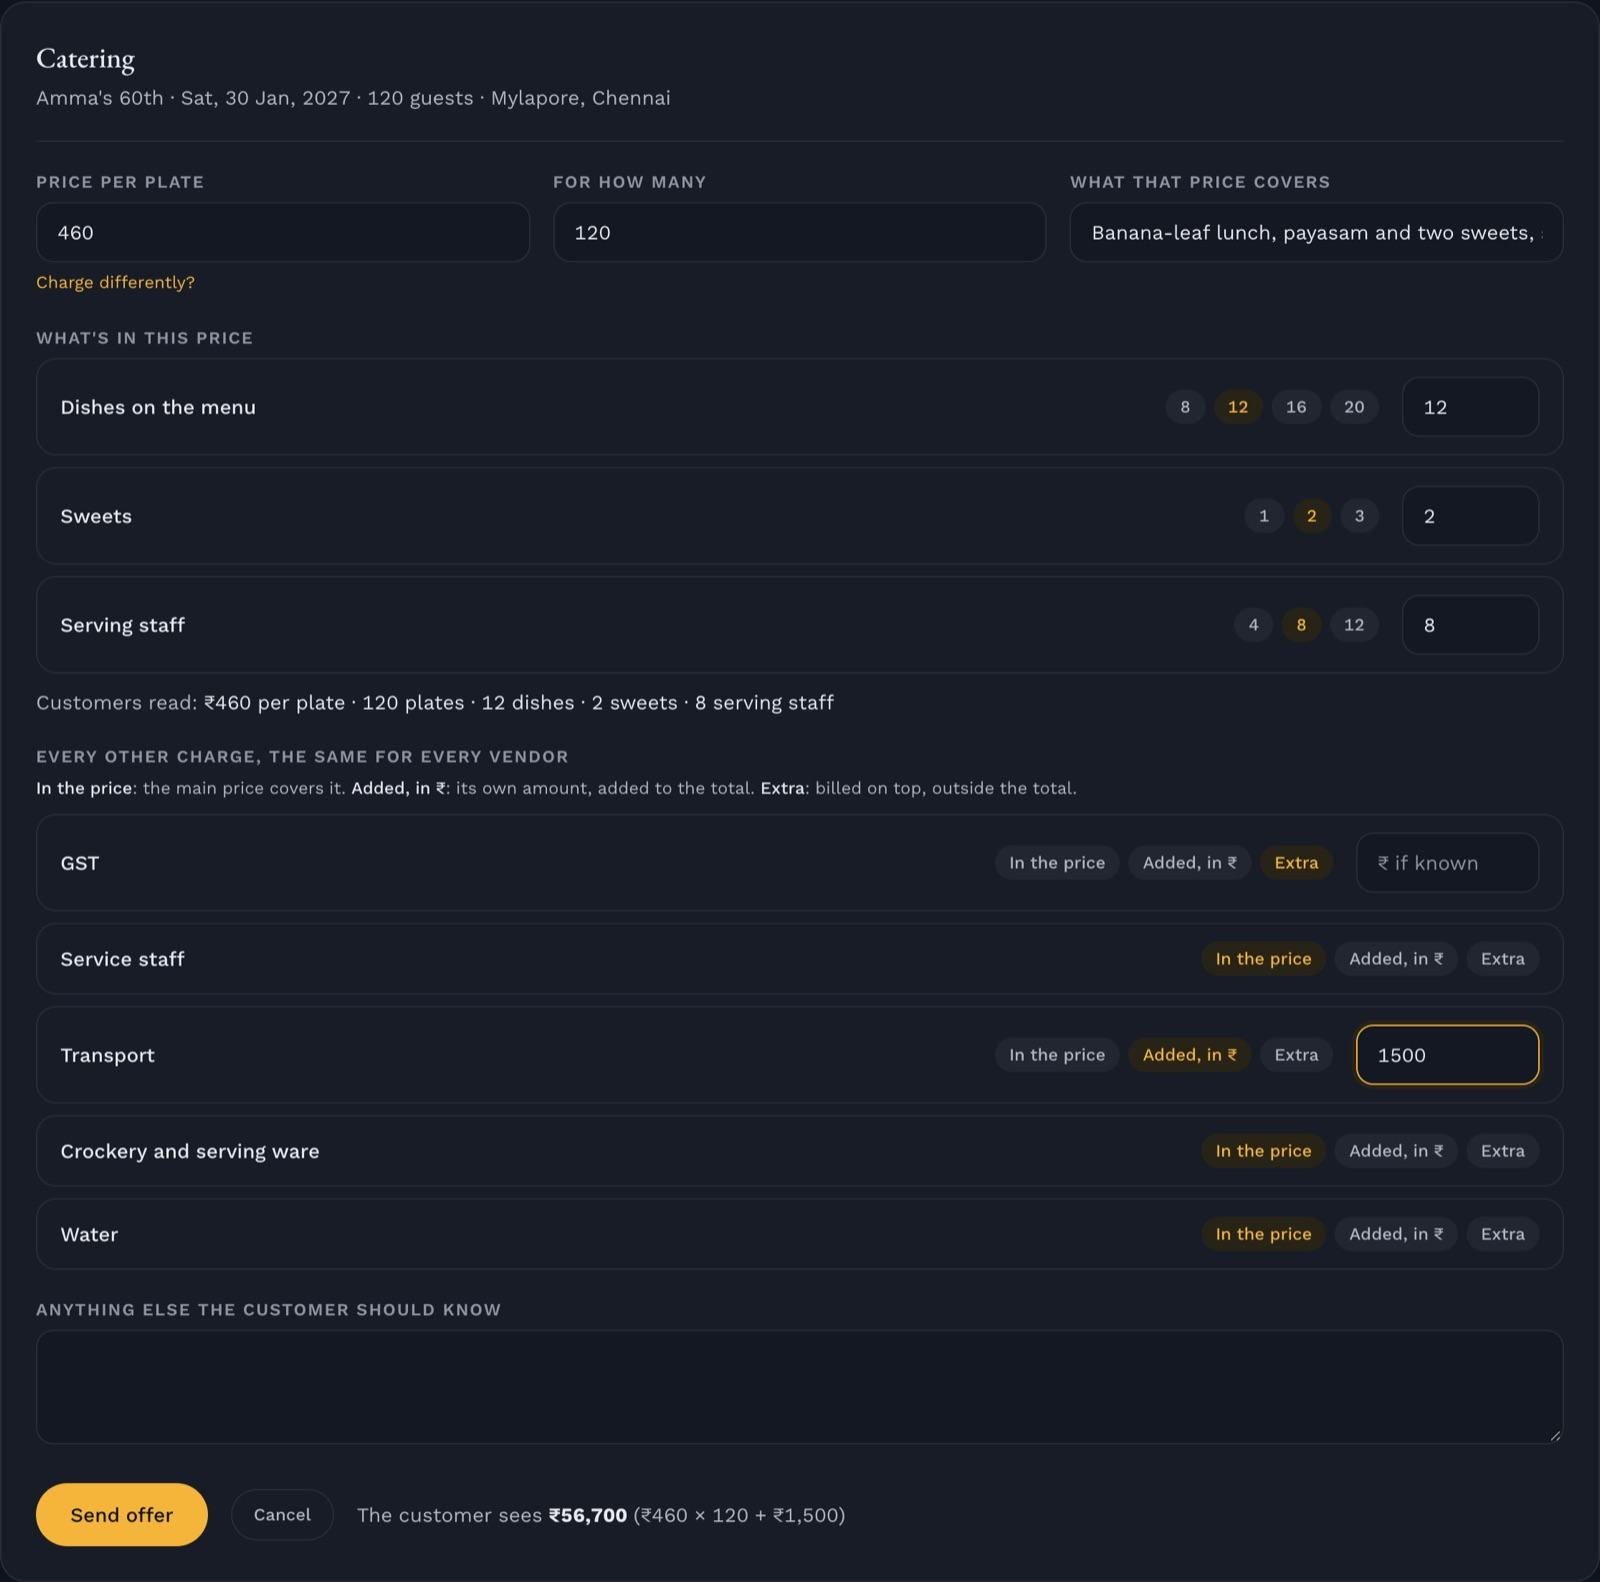
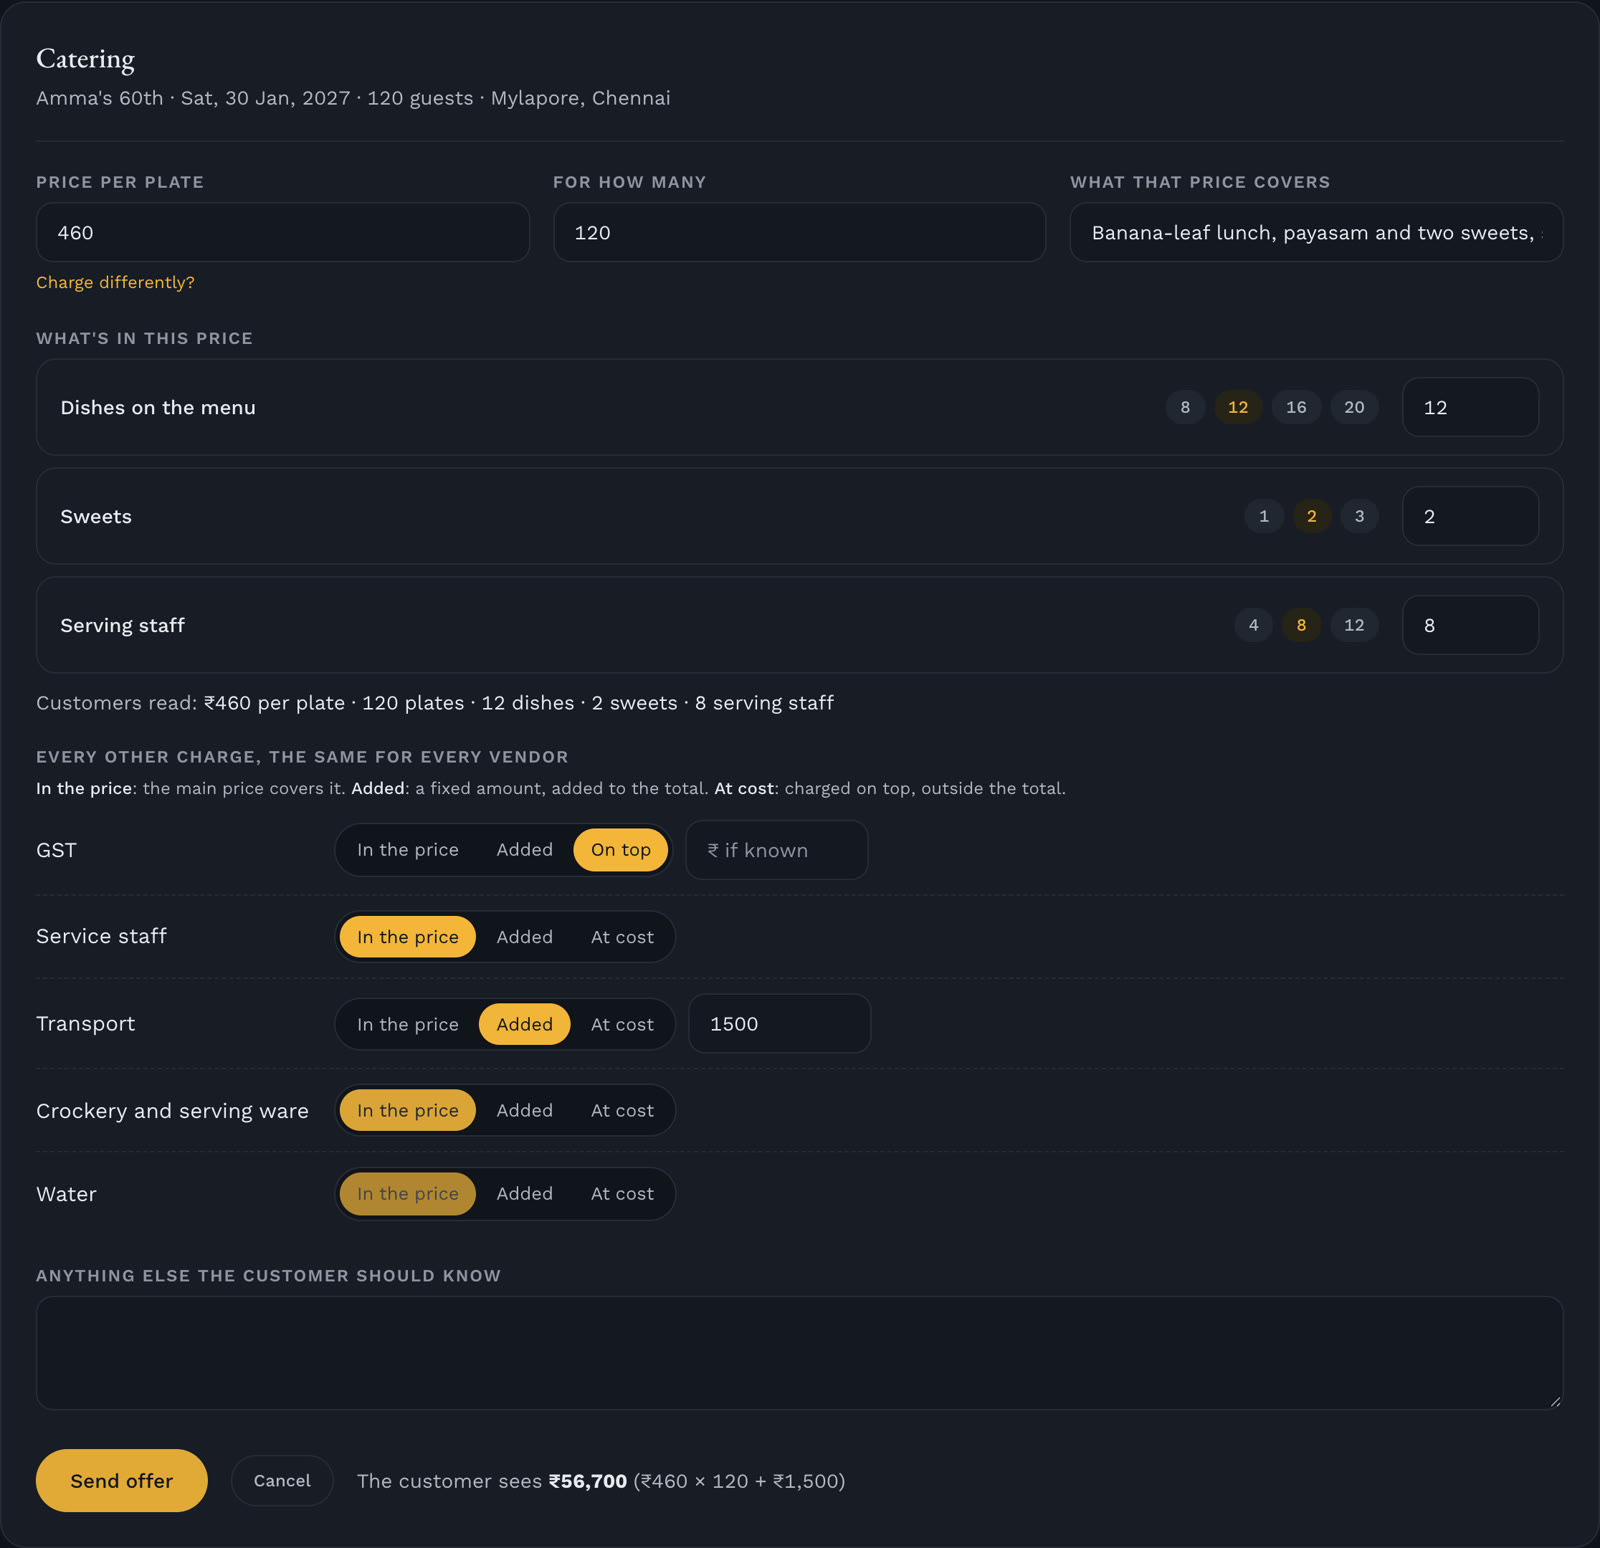
The pitch says "plan events", and the offer screenshot shows today's sheet
"A standardised way to plan events" replaces "plan and buy events" in
the README, the How it works page and the devlog. The vendor's offer
screenshot is retaken with the request sheet's new charge words (In the
price, Added, At cost; On top for GST).

diff --git a/src/pages/HowItWorksPage.tsx b/src/pages/HowItWorksPage.tsx
@@ -100,7 +100,7 @@ export function HowItWorksPage() {
 
         <section className="card mt-14 p-6 md:p-8" aria-labelledby="aim-h">
           <h2 id="aim-h" className="display text-[clamp(1.6rem,2.6vw,2.1rem)] leading-tight">
-            A standard way <em>to plan and buy events</em>
+            A standard way <em>to plan events</em>
           </h2>
           <p className="mt-3 max-w-[46rem] leading-relaxed text-muted">
             Every event, whatever its size, should get a clear budget, vendor options that can be compared, prices that say what they include, and a

diff --git a/README.md b/README.md
@@ -55,7 +55,7 @@
 </div>
 
 
-> **We're building a standardised way to plan and buy events in India, where customers often struggle to compare quotes, understand what's included and coordinate fragmented vendors. AI turns the planning process into a structured, transparent workflow.**
+> **We're building a standardised way to plan events in India, where customers often struggle to compare quotes, understand what's included and coordinate fragmented vendors. AI turns the planning process into a structured, transparent workflow.**
 
 Planning an event means juggling: vendors on calls and WhatsApp, quotes in email and PDFs, the budget in a spreadsheet, the guests in another list. And no two quotes are written alike, so nobody can tell what's included until the extra charges arrive. PlusOne solves both:
 
@@ -64,7 +64,7 @@ Planning an event means juggling: vendors on calls and WhatsApp, quotes in email
 
 **What it saves.** In the demo's 60th-birthday lunch, the quote that looks cheapest is the dearest once its minimum order, service, transport and GST sit on the same lines; choosing the one that really is cheaper saves the host about 10%. An event hires many vendors (the average wedding, 14), so if the same 10% holds across the package, a ₹5 lakh event keeps about ₹50,000 and a ₹20 lakh wedding about ₹2 lakh. On the founders' own baby shower, ₹29,500, about 10% of what was quoted, came as charges outside the headline prices ([measured](#measured-results)).
 
-India's weddings alone are about $130 billion a year (Jefferies, 2024); 87% of the industry is unorganised and the average wedding hires 14 vendors (Kotak Mutual Fund, Nov 2025). Demand is never the question; what's missing is one organised place where every price can be seen and compared. The aim is to standardise how events are planned and bought, so that every event gets a clear budget, comparable vendor options, transparent pricing and a predictable way to get it done, whatever its size: a first birthday as much as a wedding.
+India's weddings alone are about $130 billion a year (Jefferies, 2024); 87% of the industry is unorganised and the average wedding hires 14 vendors (Kotak Mutual Fund, Nov 2025). Demand is never the question; what's missing is one organised place where every price can be seen and compared. The aim is to standardise how events are planned, so that every event gets a clear budget, comparable vendor options, transparent pricing and a predictable way to get it done, whatever its size: a first birthday as much as a wedding.
 
 <img src="assets/overview.svg" width="100%" alt="How PlusOne works: customers, families and event managers, describe their event in PlusOne; vendors get the same brief and send quotes back; PlusOne puts every quote on the same lines, flags missing charges and makes every price comparable, so the customer compares them line by line; the PlusOne team verifies every vendor">
 
@@ -146,7 +146,7 @@ Before the event, PlusOne was a planner that talked a plan through, wrote to ven
 
 **Why wouldn't a customer and vendor take the deal to WhatsApp?** The guarantee, the locked standard price, the staged payments and the vendor's track record only exist for bookings made through PlusOne, the way home-services apps keep theirs. [Why bookings stay](BUSINESS.md#why-bookings-stay-on-plusone)
 
-**Is there demand?** Every week there is a birthday, a housewarming, a wedding function or an office party being planned, and 87% of the industry is unorganised. What's missing is one organised place to plan and buy it.
+**Is there demand?** Every week there is a birthday, a housewarming, a wedding function or an office party being planned, and 87% of the industry is unorganised. What's missing is one organised place to plan it.
 
 **What was built during the hackathon?** A two-sided platform with Meta's models at its core: the standard sheet, Compare line by line, the market range, Partner and Ops, voice and recorded calls, the venue view, the photo and vendor checks, the open directory and the map, price lists read on open weights, and quote updates on WhatsApp. [Built during the hackathon](#built-during-the-hackathon-27-oct--4-nov-2026)
 

diff --git a/devlog.md b/devlog.md
@@ -188,7 +188,7 @@ Muse Code is Meta's coding agent. We subscribed to the Everyday plan on 27 Oct 2
 - **Critic review (evening):** scored 6.0 / 10 as a judge would (`docs/reviews/2026-10-27.md` in the team's notes): Meta's models invisible to judges and the new features not built yet. Fixed the same evening: the hackathon cutoff stated accurately, Meta setup steps in the README, no sideways scroll on phones, the guest demo no longer opens its tour by itself, the assistant now changes headcounts and start times when told ("we're now 140 people", "move lunch to 1 pm") instead of asking, and an **Under the hood** panel lists every model call for an event, with the model, time and cost (`src/components/UnderTheHood.tsx`, `convex/modelCalls.ts`).
 - **Muse Code:** Everyday plan subscribed. First session built the SAM 3.1 adapter (`convex/lib/sam.ts`, `46df7a5`): one prompt, 30 turns, 41% of a 5-hour quota; Claude Code reviewed it, shared the retry rules with `meta.ts` and committed it. A second session (Muse Wonder) fixed event cards cropping their photos (`96a4c0d`) and used up the rest of the 5-hour quota.
 - **Night:** event cards fit the screen with every face in the photo; home page boxes stand off the page; a softer blue drawing by day so text over it stays clear; the hero photos pop out on hover.
-- **What we are building, stated plainly:** the README now opens with the pitch (a standardised way to plan and buy events in India, where quotes can't be compared, what's included is unclear and vendors are fragmented), the three layers (Co-pilot, Assisted with a real person, Partner for vendors), Chennai as the first city and India as the beachhead. A **For the judges** section lists what was built during the hackathon with each item's status and maps every judging criterion to evidence; **The business** sets out the four revenue streams. The rest of the week's plan centres on one brief and comparable offers: a standard sheet per kind of vendor, missing charges flagged, the market range, and Partner vendors answering the same brief.
+- **What we are building, stated plainly:** the README now opens with the pitch (a standardised way to plan events in India, where quotes can't be compared, what's included is unclear and vendors are fragmented), the three layers (Co-pilot, Assisted with a real person, Partner for vendors), Chennai as the first city and India as the beachhead. A **For the judges** section lists what was built during the hackathon with each item's status and maps every judging criterion to evidence; **The business** sets out the four revenue streams. The rest of the week's plan centres on one brief and comparable offers: a standard sheet per kind of vendor, missing charges flagged, the market range, and Partner vendors answering the same brief.
 - **Built with:** Claude Code, claude-opus-5-5.
 
 
